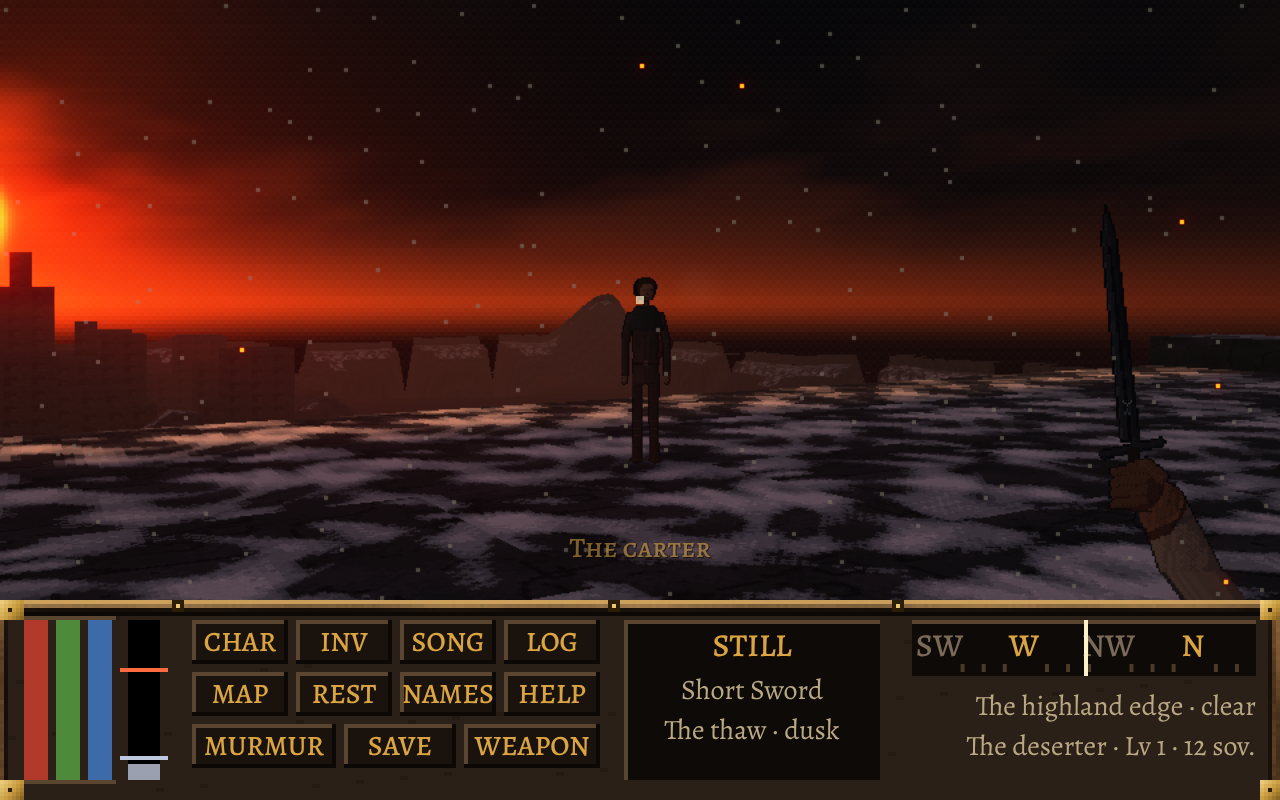
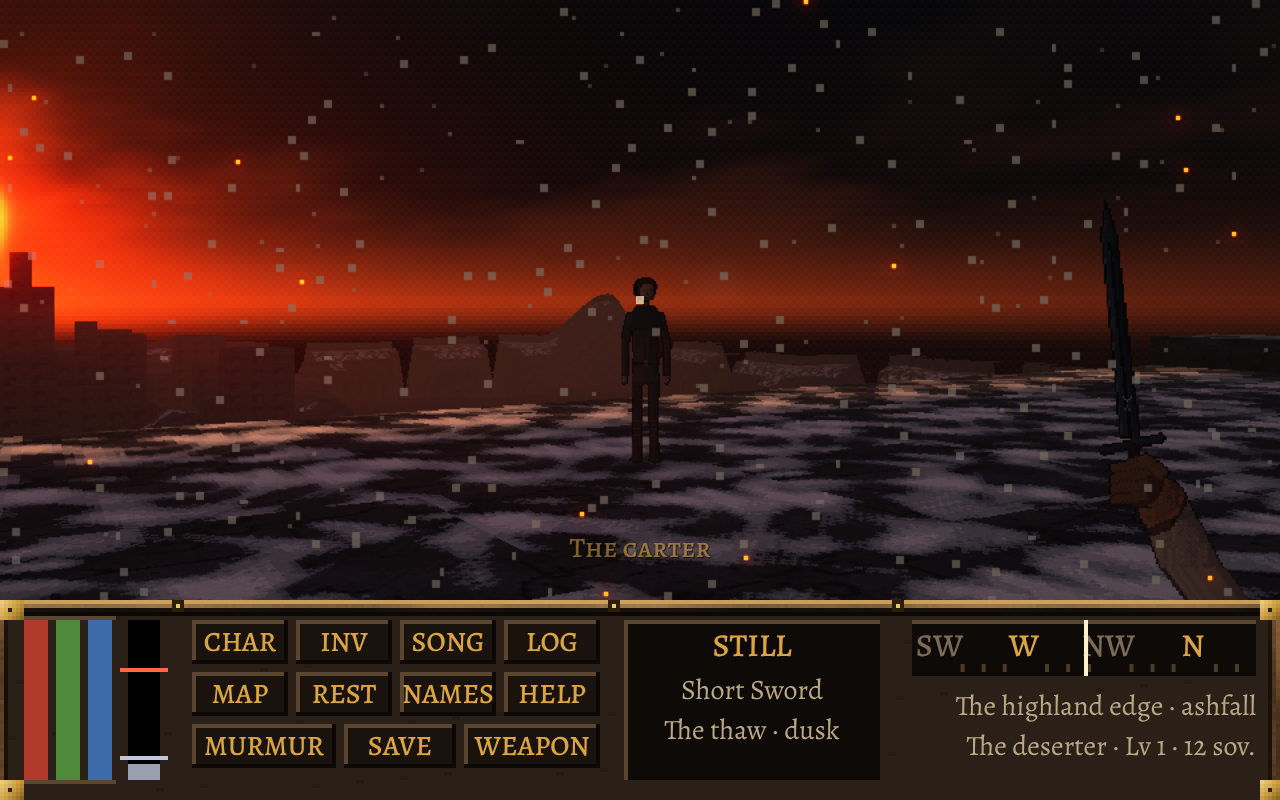
Phase 6: the ash switch still rules the ash; the panel names the weather; stills and clip
Phase 1's Ash and embers switch now turns off the ash and embers this
phase draws (the ledge test caught it). The panel says ashfall or sleet
where it said clear. Stills 60 to 67 and clip 68; the ledge's stills
retaken under the new ash. Every suite passes.

Claude-Session: https://claude.ai/code/session_01UK584Le7cFVS9YexENpynG

diff --git a/test/weather6.test.js b/test/weather6.test.js
@@ -71,6 +71,7 @@ check(/js\/door5\.js\?v=\d+"><\/script>\s*<script src="js\/weather6\.js\?v=\d+">
       const drawn = (a, b) => { let n = 0; for (let i = 0; i < a.data.length; i += 4) if (Math.abs(a.data[i] - b.data[i]) + Math.abs(a.data[i + 1] - b.data[i + 1]) + Math.abs(a.data[i + 2] - b.data[i + 2]) > 12) n++; return n / (a.data.length / 4); };
       const bare = () => { R3D.removePass('la-weather'); R3D.invalidate(); const p = frame(); R3D.addPass(wx); R3D.invalidate(); return p; };
       at(LEDGE1.LEDGE, 89.5, 48.5, Math.PI, SLEET, true); const Fon = { map: G.map, outdoor: true }; out.en = { wx: wx.enabled(Object.assign({}, Fon)), ash: ash.enabled(Object.assign({}, Fon)) };
+      out.label = { wet: Weather.label() };
       const pOn = frame(), fogOn = seen, pOnBare = bare(); out.sleet = { fog: fogOn, red: red(pOnBare), greys: drawn(pOn, pOnBare), k: WEATHER6.state().k };
       at(LEDGE1.LEDGE, 89.5, 48.5, Math.PI, DRY, true); GFX.laAsh = false; out.ashSwitch = { dry: wx.enabled(Object.assign({}, Fon)) }; G.tod = SLEET; out.ashSwitch.wet = wx.enabled(Object.assign({}, Fon)); GFX.laAsh = true;
       at(LEDGE1.LEDGE, 89.5, 48.5, Math.PI, SLEET, false); out.enOff = { wx: wx.enabled(Object.assign({}, Fon)), ash: ash.enabled(Object.assign({}, Fon)) };
@@ -79,7 +80,7 @@ check(/js\/door5\.js\?v=\d+"><\/script>\s*<script src="js\/weather6\.js\?v=\d+">
       // by day: the second day's spell, the same hour with the switch on and off
       const dayAt = (on) => { BLOOM4.reset(); GFX.laWx = on; loadMap(LEDGE1.LEDGE, { x: 89.5, y: 48.5, dir: Math.PI }); G.state = 'play'; G.day = 1; const t = (WEATHER6.spells(1)[0][0] + WEATHER6.spells(1)[0][1]) / 2; G.tod = t; advanceTime(300); G.tod = t; R3D.removePass('la-weather'); R3D.invalidate(); const p = frame(); R3D.addPass(wx); R3D.invalidate(); return lum(p); };
       out.day = { wet: dayAt(true), dry: dayAt(false) };
-      at(LEDGE1.LEDGE, 89.5, 48.5, Math.PI, DRY, true); const pDry = frame(); out.dry = { greys: drawn(pDry, bare()) };
+      at(LEDGE1.LEDGE, 89.5, 48.5, Math.PI, DRY, true); const pDry = frame(); out.label.dry = Weather.label(); out.dry = { greys: drawn(pDry, bare()) };
       // where a roof is, nothing falls: roof the whole map and the weather goes
       at(LEDGE1.LEDGE, 89.5, 48.5, Math.PI, SLEET, true); const sh = EAVES78.shelter;
       const mw = G.maps.la_ledge.w, mh = G.maps.la_ledge.h, roofed = { k: 1, w: mw, h: mh, data: new Float32Array(mw * mh).fill(1e4) }; EAVES78.shelter = () => roofed; const pRoof = frame(), pRoofBare = bare(); EAVES78.shelter = sh;
@@ -106,6 +107,7 @@ check(/js\/door5\.js\?v=\d+"><\/script>\s*<script src="js\/weather6\.js\?v=\d+">
     check(r.row === 'On', 'Options has a row for ashfall and sleet');
     check(r.passes.includes('la-weather') && !r.failed, 'its pass is in the renderer and compiled (' + (r.failed || 'no failure') + ')');
     check(r.en.wx && !r.en.ash && !r.enOff.wx && r.enOff.ash, 'on, it draws the weather and Phase 1\'s ash across the view stands aside; off, the other way round');
+    check(r.label.wet === 'sleet' && r.label.dry === 'ashfall', 'the panel names this game\'s weather: "' + r.label.wet + '", "' + r.label.dry + '"');
     check(r.ashSwitch.dry === false && r.ashSwitch.wet === true, 'Phase 1\'s "Ash and embers" switch still rules the ash: off and dry, nothing is drawn; off in sleet, only the sleet');
     check(r.sleet.k === 1 && r.sleet.greys > 0.01 && r.sleet.greys > r.dry.greys * 1.5, 'in sleet the view fills with streaks (' + (r.sleet.greys * 100).toFixed(1) + '% of the view drawn by the weather, ' + (r.dry.greys * 100).toFixed(1) + '% in ashfall)');
     check(Math.abs(r.sleet.fog.fogDist / r.off.fog.fogDist - 14 / 24) < 0.01, 'the fog closes in to 14/24 of its distance (' + r.sleet.fog.fogDist.toFixed(1) + ' against ' + r.off.fog.fogDist.toFixed(1) + ')');

diff --git a/js/weather6.js b/js/weather6.js
@@ -231,6 +231,16 @@ void main() {
     if (typeof BLOOM4 !== 'undefined' && BLOOM4.setSenses) BLOOM4.setSenses((mapId) => { const m = G && G.maps && G.maps[mapId], k = outside(m) ? kNow() : 0, f = fx(k); return { hear: f.hear, see: f.sight }; });
     // footing: in sleet the ground is grease
     if (typeof playerMove === 'function') { const _pm = playerMove; playerMove = function (o, dx, dy) { const k = G && G.map && outside(G.map) ? kNow() : 0; if (k > 0 && o === Engine.cam) { const f = fx(k).footing; dx *= f; dy *= f; } return _pm.call(this, o, dx, dy); }; }
+    // the panel's weather word: this game's weather, not the engine's (held 'clear' since Phase 1)
+    if (typeof Weather !== 'undefined' && Weather && Weather.label) {
+      const _lb = Weather.label;
+      Weather.label = function () {
+        if (!sw() || typeof G === 'undefined' || !G || !G.map || !G.map._la) return _lb.apply(this, arguments);
+        const k = sleetAt(dayNow(), G.tod); if (k <= 0) return 'ashfall'; if (k >= 1) return 'sleet';
+        const rising = spells(dayNow()).some(([a]) => G.tod >= a && G.tod < a + W.blendS / DAY_S);
+        return (rising ? 'sleet' : 'ashfall') + ' coming in';
+      };
+    }
     const _up = update; update = function (dt) { const r = _up.apply(this, arguments); try { tick(dt); } catch (e) { ST.err = ST.err || String(e && e.message); } return r; };
     return true;
   }

diff --git a/sw.js b/sw.js
@@ -18,7 +18,7 @@
 //
 // <precache:begin>
 // Generated by tools/pwa/precache.js from index.html and the asset folders. Do not edit by hand; run the tool.
-const BUILD = "dd923cb07599";
+const BUILD = "e1a4d49aade7";
 const MEDIA_BUILD = "e3b0c44298fc";
 const MEDIA_BYTES = 0;
 const CORE = [

diff --git a/ROADMAP.md b/ROADMAP.md
@@ -303,6 +303,7 @@ word for word (section 6).
   sleet banners. When it ends you get one of its ashfall banners. Indoors: "Sleet rattles on the roof."
 - **One Options switch, "Ashfall and sleet".** Off puts back Phase 1's ash across the view and turns all of the
   weather off, play included. The test checks off by frame hash.
+- **The panel names it:** "ashfall", "sleet", or "sleet coming in", where it said "clear" before.
 - `js/bloom4.js` changed with it. The weather can now scale the bloom's hearing and sight (`BLOOM4.setSenses`). With
   nothing set, it is unchanged.
 
@@ -315,6 +316,8 @@ days); the 8-second blend; every banner is the bible's. In a browser:
 - You walk at 85% (measured).
 - A run 7.4 m from the bloom is heard in ashfall and lost in sleet.
 - The cue and a banner come outside; the roof line comes inside.
+- Phase 1's "Ash and embers" switch still rules the ash and embers.
+- The panel names the weather.
 - Switched off, nothing changes in play and the frame is exact.
 - There are no page errors.
 
